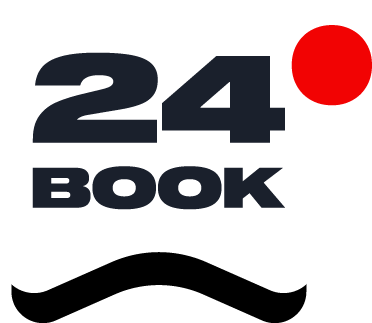
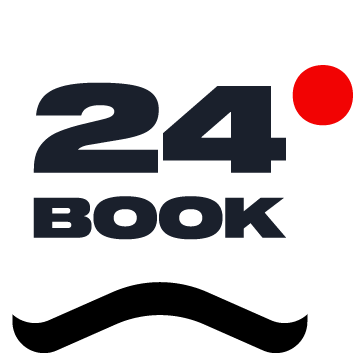
share

diff --git a/frontend/src/components/Header.tsx b/frontend/src/components/Header.tsx
@@ -11,10 +11,10 @@ export interface HeaderProps {
 
 const YourLogoImage = () => {
   const { colorMode } = useColorMode();
-  const logoSrc = colorMode === 'dark' ? '../../light.png' : '../../dark.png';
+  const logoSrc = colorMode === 'dark' ? '../../icon.png' : '../../icon.png';
 
   return (
-    <Image src={logoSrc} alt="24hbook" boxSize="50px"  />
+    <Image src={logoSrc} alt="24hbook" boxSize="40px"  />
   );
 };
 

diff --git a/frontend/src/scripts/ipfs.ts b/frontend/src/scripts/ipfs.ts
@@ -15,7 +15,7 @@ export default async function getIpfsGateways() {
   } else {
     const ipfsGateways: string[] = JSON.parse(
       localStorage.getItem('ipfs_gateways') ||
-        '["https://router.24hbook.com:3721"]'
+        '["https://cloudflare-ipfs.com","https://dweb.link","https://ipfs.io","https://gateway.pinata.cloud"]'
     );
     return ipfsGateways;
   }

diff --git a/frontend/src/App.tsx b/frontend/src/App.tsx
@@ -91,9 +91,9 @@ const App: React.FC = () => {
               icon={<Icon  as={TbBook2} boxSize={6}  />}
             />
             
-            {/* <Suspense>
+            <Suspense>
               <Settings />
-            </Suspense> */}
+            </Suspense>
           </HStack>
         </Header>
 
